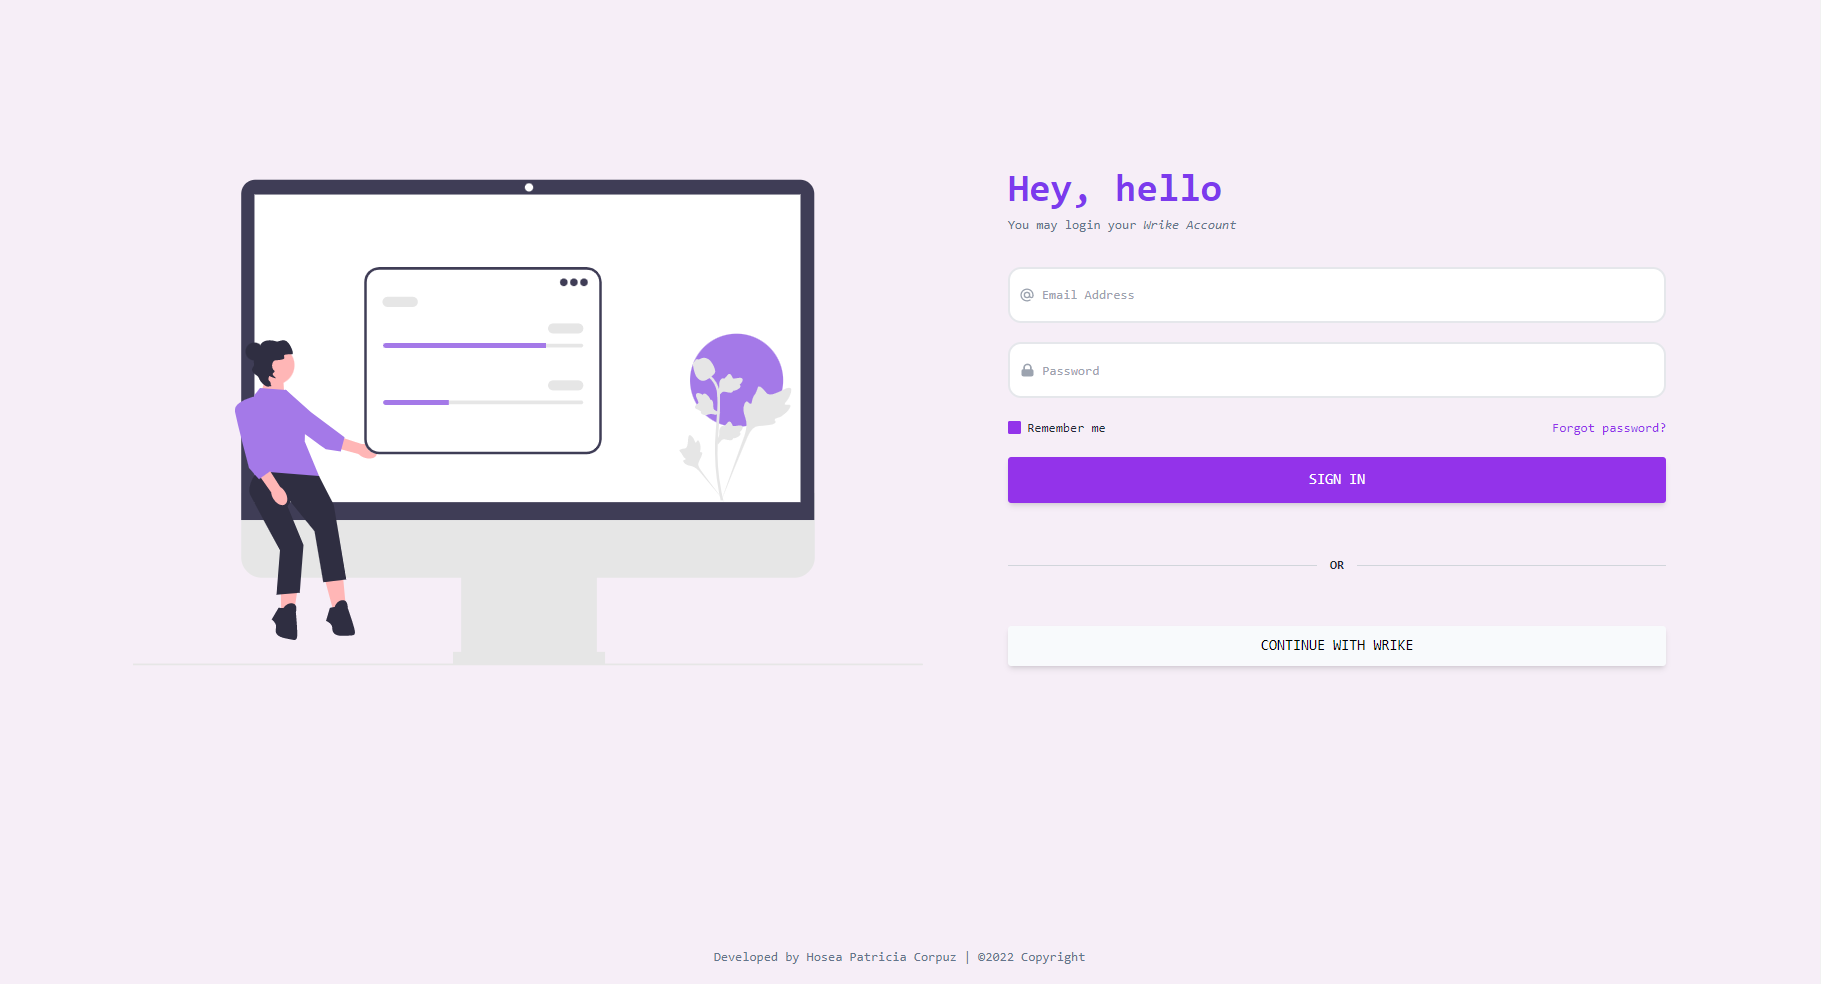
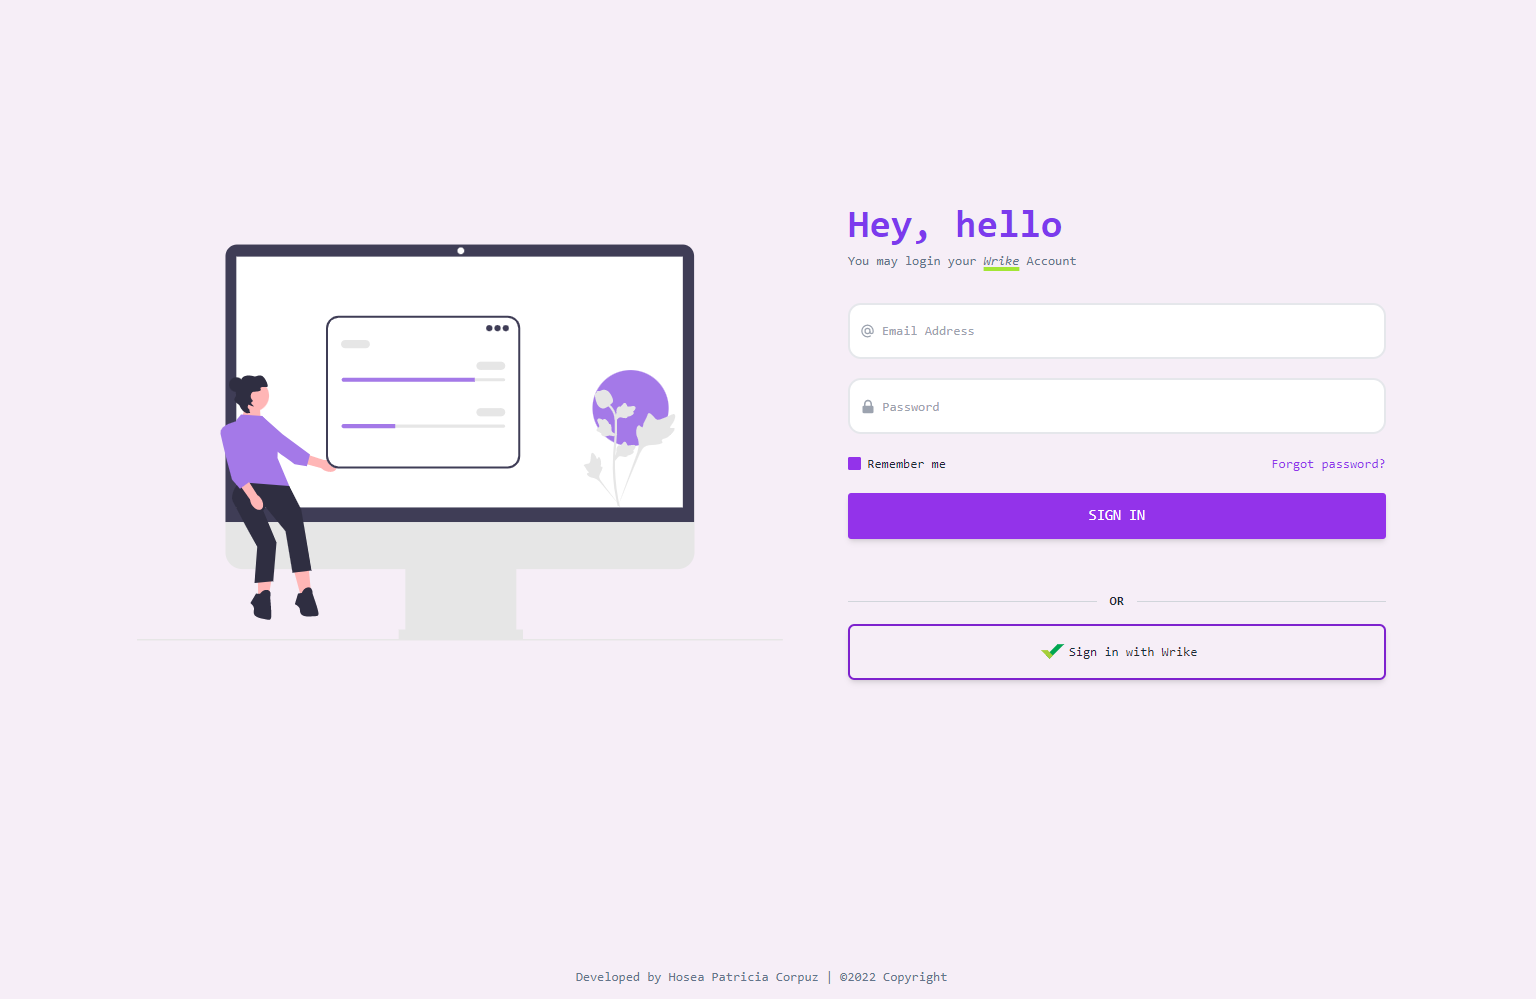
Improve UI

diff --git a/pages/index.vue b/pages/index.vue
@@ -1,11 +1,10 @@
 <template>
     <section class="h-screen">
-        <div class="px-40 h-full">
-            <div class="flex justify-center items-center flex-wrap h-full gap-6 text-gray-800">
+        <div class="px-40 md:h-full">
+            <div class="flex md:justify-center md:items-center flex-wrap h-full gap-6 text-gray-800 sm:justify-start  sm:items-end sm:gap-0">
             <div class="md:w-8/12 lg:w-6/12">
                 <img
                     src="../src/images/stat_undraw.svg"
-                    class="w-full"
                     alt="Sample image"
                 />
             </div>
@@ -13,7 +12,7 @@
                 <form>
                 <div class="mb-10">
                     <h1 class="text-violet-600 text-5xl font-extrabold mb-2">Hey, hello</h1>
-                    <p class="text-slate-500">You may login your <i>Wrike Account</i></p>
+                    <p class="text-slate-500">You may login your <i class="underline decoration-solid decoration-lime-400 decoration-4 ">Wrike</i> Account</p>
                 </div>
                 <!-- Email input -->
                 <div class=" flex items-center border-2 py-2 px-3 rounded-2xl mb-6 bg-white focus-within:border-purple-500">
@@ -79,24 +78,21 @@
                     <p class="text-center font-semibold mx-4 mb-0">OR</p>
                 </div>
 
-                <div class="flex justify-center items-center mt-16 border-emerald-500">
-                    <a
-                    class="px-7 py-3 text-black font-medium text-lg leading-snug uppercase rounded shadow-md hover:shadow-lg focus:shadow-lg focus:ring-0 active:shadow-lg transition duration-150 ease-in-out w-full flex justify-center items-center mb-3 bg-slate-50 hover:bg-slate-100" 
-                    href="#!"
-                    role="button"
-                    >
-                    <!-- <img src="@/src/images/wrike-logo.png" alt="Wrike Integration" width="300" height=""> -->
-                    <!-- <a href="https://iconscout.com/icons/wrike" target="_blank">Wrike Logo Icon</a> by <a href="https://iconscout.com/contributors/icon-mafia" target="_blank">Icon Mafia</a>  -->
-                    <img src="@/src/images/wrike.svg" alt="" width="50px" height="50px">
-                        Continue with Wrike
-                    </a>
-                </div>
+                
+                   
+                    
+                <button class="flex items-center justify-center flex-none px-3 py-4 md:px-4 md:py-3 border-2 rounded-lg font-medium border-purple-700 w-full shadow-md hover:shadow-lg focus:shadow-lg focus:ring-0 active:shadow-lg transition duration-150">
+                    <img src="@/src/images/wrike.svg" alt="" class="w-10">
+                    <span>Sign in with Wrike</span>
+                </button>
                 </form>
             </div>
             </div>
             
         </div>
+
+        <Footer />
     </section>
 
-    <Footer />
+   
 </template>
